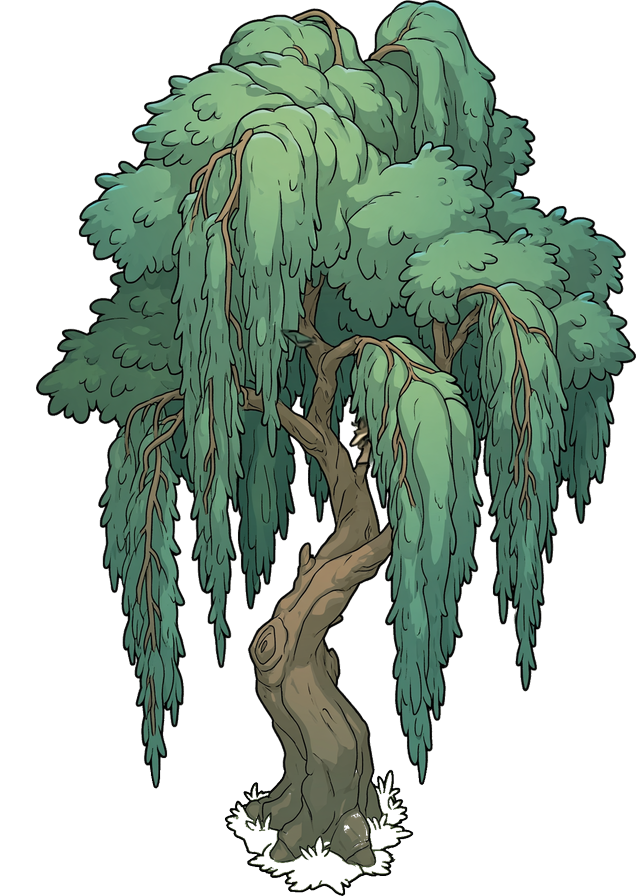
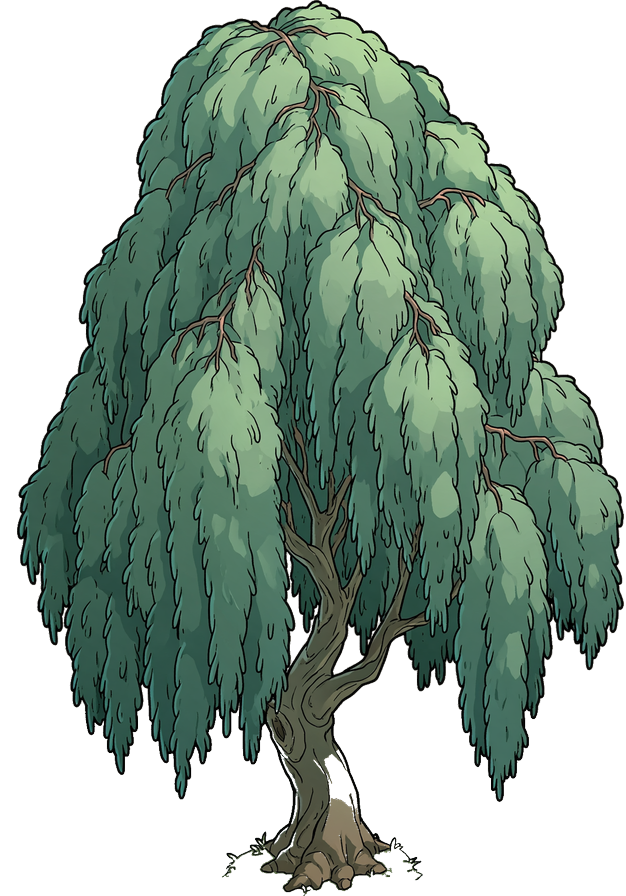
fix: willows on the bank, not in the water, and a little fewer (D37)
Nothing stands on a tile touching a river or a ford, even by a corner:
its trunk and crown were drawn over the water. Riverside trees stand two
tiles from a river with a chance of 25 %, three tiles 15 % (was 35 % at
one tile, half that at two). The first willow image, with a ring of
grass and a dark outline round its foot, is withdrawn until edited; the
second becomes `willow_adult_01`.

diff --git a/server/sim/src/woods.rs b/server/sim/src/woods.rs
@@ -96,9 +96,10 @@ impl Woods {
     const COPSE_RADIUS: (u32, u32) = (1500, 4000);
     /// Chance of a lone tree on a meadow tile, in thousandths.
     const LONE: u32 = 4;
-    /// Chance of a riverside tree one tile from a river, in thousandths;
-    /// half that two tiles away.
-    const RIVERSIDE: u32 = 350;
+    /// Chance of a riverside tree two tiles from a river, then three, in
+    /// thousandths: never on the tile beside the water, so a tree and its
+    /// crown stand on the bank, not in the river.
+    const RIVERSIDE: (u32, u32) = (250, 150);
     /// How ragged a round patch's rim is, in thousandths of its radius.
     const RAGGED: i64 = 350;
 
@@ -209,7 +210,7 @@ impl Woods {
         out
     }
 
-    /// Per tile, 1 or 2 when a river (water or ford, not a brook) is that
+    /// Per tile, 1 to 3 when a river (water or ford, not a brook) is that
     /// many tiles away, eight-way, else 0.
     fn near_river(width: u32, height: u32, rivers: &Rivers) -> Vec<u8> {
         let mut near = vec![0_u8; (width * height) as usize];
@@ -218,8 +219,8 @@ impl Woods {
                 if !matches!(rivers.at(x, y), Some(Terrain::Water | Terrain::Ford)) {
                     continue;
                 }
-                for dy in -2_i64..=2 {
-                    for dx in -2_i64..=2 {
+                for dy in -3_i64..=3 {
+                    for dx in -3_i64..=3 {
                         let (nx, ny) = (i64::from(x) + dx, i64::from(y) + dy);
                         if nx < 0 || ny < 0 || nx >= i64::from(width) || ny >= i64::from(height) {
                             continue;
@@ -370,7 +371,11 @@ impl Plan {
             Habitat::Meadow | Habitat::Edge | Habitat::Lone | Habitat::Copse
         );
         if open_bank && self.near_river[i] > 0 {
-            let chance = Woods::RIVERSIDE / u32::from(self.near_river[i]);
+            let chance = match self.near_river[i] {
+                2 => Woods::RIVERSIDE.0,
+                3 => Woods::RIVERSIDE.1,
+                _ => 0,
+            };
             if rng.next_below(1000) < chance {
                 d = d.max(300);
                 habitat = Habitat::Riverside;
@@ -460,14 +465,16 @@ mod tests {
                             near(x, y, 8, &|p| map.trees(p) >= Woods::FOREST),
                             "seed {seed}: clearing at ({x}, {y}) far from any wood"
                         ),
-                        // Riverside trees stand by a river.
-                        Habitat::Riverside => assert!(
-                            near(x, y, 2, &|p| matches!(
-                                map.get(p),
-                                Some(Terrain::Water | Terrain::Ford)
-                            )),
-                            "seed {seed}: riverside tree at ({x}, {y}) far from a river"
-                        ),
+                        // Riverside trees stand by a river, on the bank:
+                        // two or three tiles from the water, never beside it.
+                        Habitat::Riverside => {
+                            let river =
+                                |p: Pos| matches!(map.get(p), Some(Terrain::Water | Terrain::Ford));
+                            assert!(
+                                near(x, y, 3, &river) && !near(x, y, 1, &river),
+                                "seed {seed}: riverside tree at ({x}, {y})"
+                            );
+                        }
                         _ => {}
                     }
                 }

diff --git a/server/sim/src/trees.rs b/server/sim/src/trees.rs
@@ -16,7 +16,7 @@
 use serde::{Deserialize, Serialize};
 
 use crate::content::Species;
-use crate::map::{FinePos, Groves, Lcg, MM_PER_TILE, Map, Pos};
+use crate::map::{FinePos, Groves, Lcg, MM_PER_TILE, Map, Pos, Terrain};
 use crate::woods::Habitat;
 
 /// A tree standing on the ground.
@@ -61,7 +61,18 @@ pub fn plant(map: &Map, species: &[Species], seed: u64) -> Vec<Tree> {
                 i32::try_from(y).expect("map fits in i32"),
             );
             let habitat = map.habitat(pos);
+            // Nothing stands right beside a river or a ford: its trunk and
+            // crown would be drawn over the water.
+            let by_the_water = (-1..=1).any(|dy| {
+                (-1..=1).any(|dx| {
+                    matches!(
+                        map.get(Pos::new(pos.x + dx, pos.y + dy)),
+                        Some(Terrain::Water | Terrain::Ford)
+                    )
+                })
+            });
             let chance = match habitat {
+                _ if by_the_water => 0,
                 Habitat::Lone | Habitat::Riverside => 1000,
                 _ => u32::from(map.trees(pos)) * CHANCE / 10,
             };
@@ -158,6 +169,16 @@ mod tests {
                         > 0
                 );
                 assert!(at.insert(tile, tree.species).is_none(), "one tree a tile");
+                // Never beside the water.
+                for dy in -1..=1 {
+                    for dx in -1..=1 {
+                        let near = map.get(Pos::new(tile.x + dx, tile.y + dy));
+                        assert!(
+                            !matches!(near, Some(Terrain::Water | Terrain::Ford)),
+                            "seed {seed}: a tree at {tile:?} beside the water"
+                        );
+                    }
+                }
             }
             // Every lone and riverside tile has its tree; the heart holds
             // one tile in three or so.
@@ -167,11 +188,17 @@ mod tests {
                     let pos = Pos::new(x, y);
                     match map.habitat(pos) {
                         Habitat::Lone | Habitat::Riverside => {
+                            let by_the_water = (-1..=1).any(|dy| {
+                                (-1..=1).any(|dx| {
+                                    matches!(
+                                        map.get(Pos::new(x + dx, y + dy)),
+                                        Some(Terrain::Water | Terrain::Ford)
+                                    )
+                                })
+                            });
                             assert!(
-                                at.contains_key(&pos)
-                                    || kinds
-                                        .iter()
-                                        .all(|k| !k.habitats.contains_key(&map.habitat(pos)))
+                                at.contains_key(&pos) || by_the_water,
+                                "seed {seed}: {pos:?}"
                             );
                         }
                         Habitat::Heart => {

diff --git a/docs/04-architecture.md b/docs/04-architecture.md
@@ -185,8 +185,8 @@ Each decision is recorded with its **reason** and its **consequences**. These ar
   - **Massifs**: a broad noise (64 tiles) roughened by two finer ones (16 and 5 tiles), thickened where the ground is wet (the wetness the brooks rise from) and in a band ten rows deep at the cliff's foot. The level that makes a tile wooded is **chosen per map**, so the massifs, edges included, always cover **32 %** of the land: with one or two massifs a map, a fixed level gave anything from a third to three quarters.
   - **Edge, wood, heart**: the density rises from a massif's rim inwards over a few tiles; the heart (from 75) never touches the open meadow.
   - **Clearings**: ten a map in the woods, 3 to 7 tiles in radius, ragged; and a **camp clearing** 9 tiles around the place the first bodies start (`Map::camp`, tile 134, 139 of the first valley).
-  - **Copses**: thirty a map in the meadow, 1.5 to 4 tiles in radius; **lone trees** on about 0.4 % of the meadow; **riverside trees** one tile from a river with a chance of 35 %, half that two tiles away.
+  - **Copses**: thirty a map in the meadow, 1.5 to 4 tiles in radius; **lone trees** on about 0.4 % of the meadow; **riverside trees** on the bank, two tiles from a river with a chance of 25 %, three tiles 15 % (8 November 2026: at one tile with 35 % they stood half in the water and were too many).
   - Over six maps the land is a third wooded (33 to 35 %), a fifth or so forest proper.
   - **Several species, grouped in stands that mix** (the lead's call): each habitat has its species (heart and wood: oak, pine, some birch; the band at the cliff's foot, its own habitat: pine; edge and clearings' rims: birch, hazel; riverside: willow; copses and lone trees: oak, wild apple, from `09-visual-production.md`). Each species also has its own **stands**, a noise about ten tiles across; a tree's species is drawn from the habitat's weights times the square of each species' stand there. Trees of one kind come in groups that mix at their borders: on the test maps about one neighbour in five is of another kind. The weights are content (`content/species.ron`), not code; balanced weights matter as much as the stands, since a species that outweighs the others everywhere leaves no room for groups of the others.
-  - **The trees themselves** (8 November 2026): a tile holds a tree with a chance of 35 % of its density (a heart holds one tile in three or so), a lone or riverside tile always holds its tree, up to 30 cm from the tile's centre. They are planted from the map and the content when the world is created and again when it is loaded, never stored; a felled tree will be stored when felling comes. A tree does not block the way for now: one walks under its crown, the forest's own cost slowing the walk. Chunks carry their trees and `world_state` the kinds of tree with their height (protocol v10). The client draws each tree as an image of its kind standing on its foot, sorted with the bodies from far to near so a body walks behind a trunk; which image of the kind and a size within 12 % are drawn from the tree's place, as with the bank pieces.
+  - **The trees themselves** (8 November 2026): a tile holds a tree with a chance of 35 % of its density (a heart holds one tile in three or so), a lone or riverside tile always holds its tree, up to 30 cm from the tile's centre; nothing stands on a tile touching a river or a ford, even by a corner, since its trunk and crown would be drawn over the water. They are planted from the map and the content when the world is created and again when it is loaded, never stored; a felled tree will be stored when felling comes. A tree does not block the way for now: one walks under its crown, the forest's own cost slowing the walk. Chunks carry their trees and `world_state` the kinds of tree with their height (protocol v10). The client draws each tree as an image of its kind standing on its foot, sorted with the bodies from far to near so a body walks behind a trunk; which image of the kind and a size within 12 % are drawn from the tree's place, as with the bank pieces.
   - Every number here is a dial of the generator, to be tuned by looking at maps; the mechanism is the decision.

diff --git a/content/art/trees/README.md b/content/art/trees/README.md
@@ -1,7 +1,7 @@
 # trees
 
 The trees standing in the woods (D37): six species, adult, one or two
-variants each (`<species>_adult_<nn>_summer.png`), drawn by the client on
+variants each (`<species>_adult_<nn>_summer.png`; the client takes `_01`, `_02`, … up to the first missing number), drawn by the client on
 the point where the server says the trunk meets the ground.
 
 - **Format**: 256 px per metre of the species' height (`content/species.ron`:
@@ -20,7 +20,7 @@ the point where the server says the trunk meets the ground.
   - oak 02: wide and stocky, one thick branch leaning, bare massive trunk;
   - birch 01, 02: slender, thin straight white trunk with black marks, light airy crown;
   - pine 01: tall scots pine, bare reddish trunk, dark green parasol crown (a second to come);
-  - willow 01, 02: branches hanging like a curtain, parted so the trunk shows;
+  - willow 01 (made as 02): branches hanging like a curtain, parted so the trunk shows (willow 01 withdrawn on 8 November 2026: a ring of grass with a dark outline round its foot did not blend with the ground; back once edited);
   - hazel 01, 02: a tall bush of thin stems rising from one point, rounded leafy top;
   - wild apple 01, 02: small, round crown with a few red apples.
 - **Sources**: the Midjourney outputs stay outside the repository
